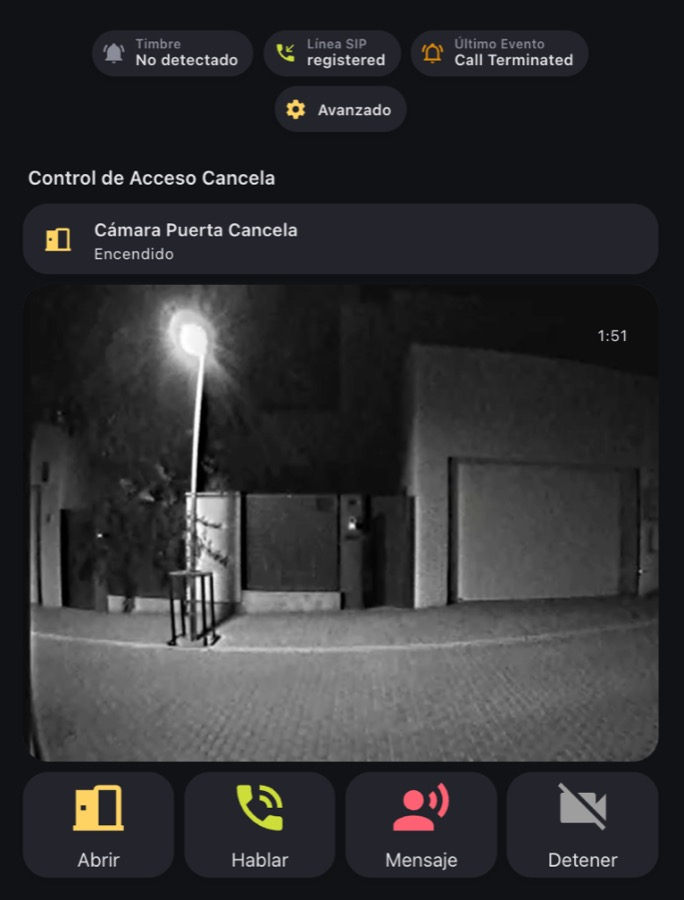
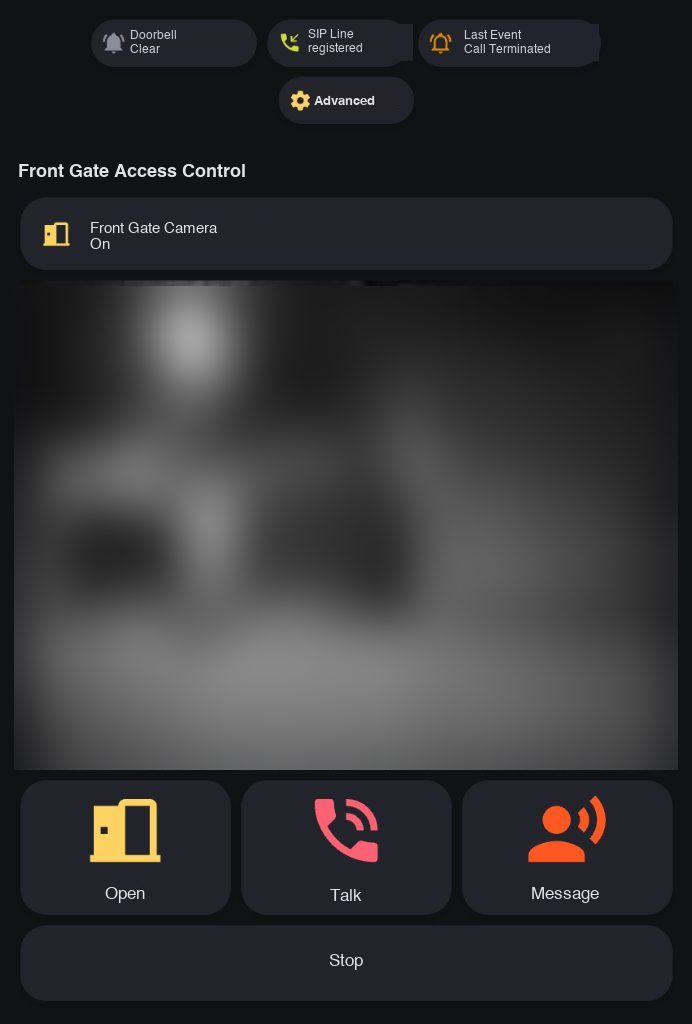
Address review feedback: add dashboard YAML, fix automations/placeholders, blur & translate screenshots

diff --git a/README.md b/README.md
@@ -495,8 +495,6 @@ falls back to Standard; another door is never selected silently.
 
 ## Example Intercom Dashboard & Automations
 
-To help users build a complete, intuitive video intercom UI in Home Assistant, here is an example implementation using conditional cards for standby vs active calls.
-
 <p align="center">
   <img src="docs/images/intercom_standby_dashboard.jpg" width="31%" alt="ABB Welcome Standby Dashboard" />
   &nbsp;
@@ -506,24 +504,114 @@ To help users build a complete, intuitive video intercom UI in Home Assistant, h
 </p>
 
 ### Standby, Active Call, and Diagnostics UI Flow
-* **In Standby:** Displays door unlock buttons, direct camera view triggers, and the latest visitor screenshot with timestamp.
-* **During a Ring / Active Call:** Automatically reveals the live video feed with an active countdown timer badge and an action bar with four quick-action buttons:
-  - **Open:** Unlocks the gate (`button.press`).
-  - **Talk:** Quick URL shortcut or talkback action.
-  - **Message:** Broadcasts a pre-recorded absence message through the outdoor speaker.
+* **In Standby:** Displays door unlock buttons, direct camera view triggers, and the latest visitor screenshot.
+* **During a Ring / Active Call:** Reveals the live video feed (`camera.<gateway>_<door_name>`) with quick-action buttons:
+  - **Open:** Unlocks the door (`button.press`).
+  - **Message:** Broadcasts a pre-recorded absence message through the outdoor speaker (`abb_welcome.talk_audio_file`).
   - **Stop:** Disarms live streaming (`switch.turn_off`).
-* **Technical & Diagnostics View:** Dedicated diagnostic panel providing per-station test actions (`talk_tone`, etc.), live SIP listener status monitoring, portal event refresh, and individual mobile doorbell notification toggles.
+* **Technical & Diagnostics:** Shows live SIP listener state, last event, `allow_pickup` toggle, and `refresh_events` button.
+
+<details>
+<summary>Example Dashboard View YAML (replace <code>&lt;gateway&gt;</code> and <code>&lt;door_name&gt;</code> with your entity IDs)</summary>
+
+```yaml
+title: ABB Welcome Intercom
+path: abb-intercom
+icon: mdi:doorbell-video
+type: sections
+badges:
+  - type: entity
+    entity: binary_sensor.<gateway>_intercom_ringing
+    name: Ringing
+  - type: entity
+    entity: sensor.<gateway>_sip_listener
+    name: SIP Listener
+  - type: entity
+    entity: sensor.<gateway>_last_event
+    name: Last Event
+sections:
+  - cards:
+      - type: conditional
+        conditions:
+          - entity: switch.<gateway>_streaming_enabled
+            state: "on"
+        card:
+          type: vertical-stack
+          cards:
+            - type: picture-entity
+              entity: camera.<gateway>_<door_name>
+              camera_view: live
+              show_state: false
+              show_name: false
+            - type: grid
+              columns: 3
+              square: false
+              cards:
+                - type: button
+                  name: Open
+                  icon: mdi:door-open
+                  tap_action:
+                    action: perform-action
+                    perform_action: button.press
+                    target:
+                      entity_id: button.<gateway>_<door_name>
+                    confirmation:
+                      text: Unlock the door?
+                - type: button
+                  name: Message
+                  icon: mdi:account-voice
+                  tap_action:
+                    action: perform-action
+                    perform_action: abb_welcome.talk_audio_file
+                    data:
+                      entity_id: camera.<gateway>_<door_name>
+                      file_path: "/config/abb_welcome/intercom_mensaje.wav"
+                - type: button
+                  name: Stop
+                  icon: mdi:video-off
+                  tap_action:
+                    action: perform-action
+                    perform_action: switch.turn_off
+                    target:
+                      entity_id: switch.<gateway>_streaming_enabled
+      - type: tile
+        entity: button.<gateway>_<door_name>
+        name: Unlock Door
+        icon: mdi:door-open
+      - type: button
+        name: View Live Camera
+        icon: mdi:video
+        tap_action:
+          action: perform-action
+          perform_action: abb_welcome.arm_streaming
+      - type: picture-glance
+        title: Latest Screenshot
+        image_entity: image.<gateway>_latest_screenshot
+        entities:
+          - entity: binary_sensor.<gateway>_intercom_ringing
+  - cards:
+      - type: entities
+        title: Diagnostics & Controls
+        entities:
+          - entity: switch.<gateway>_streaming_enabled
+          - entity: switch.<gateway>_allow_pickup
+          - entity: sensor.<gateway>_sip_listener
+          - entity: sensor.<gateway>_last_event
+          - entity: button.<gateway>_refresh_events
+```
+
+</details>
 
 ### Automation: Doorbell Answering Machine (Absence Message)
 
-Broadcast an audio file to the outdoor station when someone rings the doorbell and nobody is home:
+Broadcast an audio file to the outdoor station when someone rings the doorbell and nobody is home (requires `abb_welcome.talk_audio_file`, which automatically opens/answers the station when no stream is active and closes afterward):
 
 ```yaml
 alias: "ABB Welcome: Absence Message on Doorbell Ring"
 description: "Broadcast an absence message to the outdoor station if home is unoccupied"
 trigger:
   - platform: state
-    entity_id: binary_sensor.red_casa_abb_welcome_gateway_intercom_ringing
+    entity_id: binary_sensor.<gateway>_intercom_ringing
     to: "on"
 condition:
   - condition: state
@@ -533,31 +621,62 @@ action:
   - delay: "00:00:03"  # Brief pause after first ring tone
   - action: abb_welcome.talk_audio_file
     data:
-      file_path: "/media/abb_welcome/intercom_mensaje.wav"
+      file_path: "/config/abb_welcome/intercom_mensaje.wav"
 ```
 
 ### Automation: Actionable Mobile Notification
 
-Send an instant mobile notification with the visitor screenshot and quick actions to unlock or trigger a response:
+Send an instant mobile notification with the visitor screenshot and handle the `OPEN_GATE` and `SEND_MESSAGE` button taps:
 
 ```yaml
-alias: "ABB Welcome: Doorbell Ring Notification"
+alias: "ABB Welcome: Doorbell Ring Notification & Actions"
+mode: parallel
 trigger:
   - platform: state
-    entity_id: binary_sensor.red_casa_abb_welcome_gateway_intercom_ringing
+    entity_id: binary_sensor.<gateway>_intercom_ringing
     to: "on"
+    id: ring
+  - platform: event
+    event_type: mobile_app_notification_action
+    event_data:
+      action: OPEN_GATE
+    id: open_gate
+  - platform: event
+    event_type: mobile_app_notification_action
+    event_data:
+      action: SEND_MESSAGE
+    id: send_message
 action:
-  - action: notify.notify
-    data:
-      title: "Doorbell Ring!"
-      message: "Someone is at the front gate."
-      data:
-        image: "/api/image_proxy/image.red_casa_abb_welcome_gateway_latest_screenshot"
-        actions:
-          - action: "OPEN_GATE"
-            title: "Open Gate"
-          - action: "SEND_MESSAGE"
-            title: "Play Absence Message"
+  - choose:
+      - conditions:
+          - condition: trigger
+            id: ring
+        sequence:
+          - action: notify.mobile_app_<device>
+            data:
+              title: "Doorbell Ring!"
+              message: "Someone is at the front gate."
+              data:
+                image: "/api/image_proxy/image.<gateway>_latest_screenshot"
+                actions:
+                  - action: "OPEN_GATE"
+                    title: "Open Gate"
+                  - action: "SEND_MESSAGE"
+                    title: "Play Absence Message"
+      - conditions:
+          - condition: trigger
+            id: open_gate
+        sequence:
+          - action: button.press
+            target:
+              entity_id: button.<gateway>_<door_name>
+      - conditions:
+          - condition: trigger
+            id: send_message
+        sequence:
+          - action: abb_welcome.talk_audio_file
+            data:
+              file_path: "/config/abb_welcome/intercom_mensaje.wav"
 ```
 
 ## Troubleshooting
@@ -600,8 +719,8 @@ action:
 - **WebRTC live stream works on local Wi-Fi but hangs or fails on mobile data (5G/4G)**:
   Mobile network carriers implement Carrier-Grade NAT (CGNAT) with symmetric NAT,
   which prevents direct STUN peer-to-peer negotiation. Configure an ICE TURN relay
-  server (such as `coturn`) in `go2rtc.yaml` under `webrtc: ice_servers:` or in
-  Home Assistant network settings to allow media packets to relay smoothly.
+  server (such as `coturn`) in `go2rtc.yaml` under `webrtc: ice_servers:` to allow
+  media packets to relay smoothly.
 
 ## Tested Hardware
 
